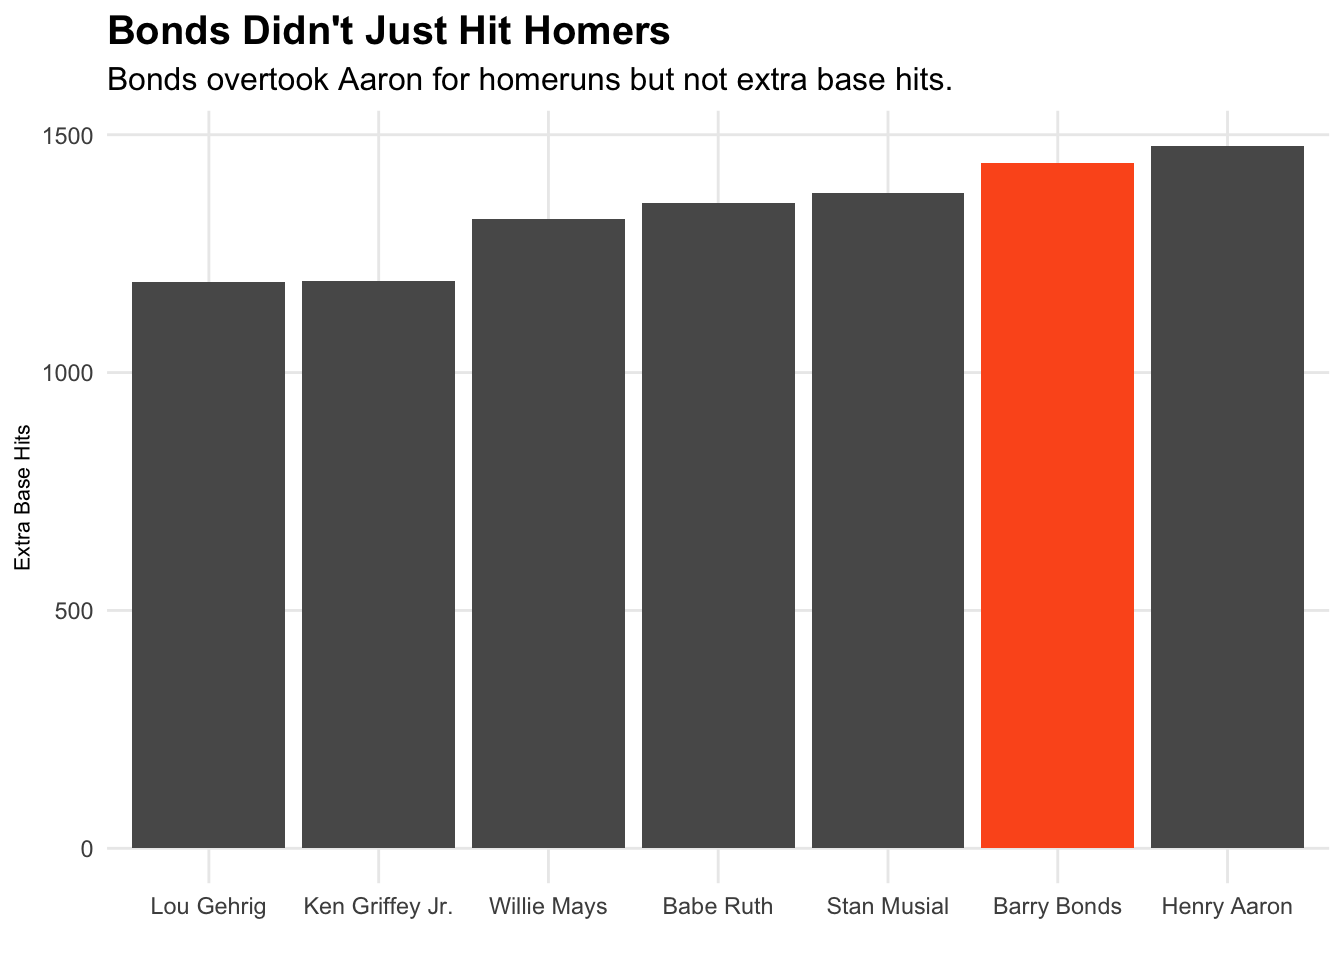
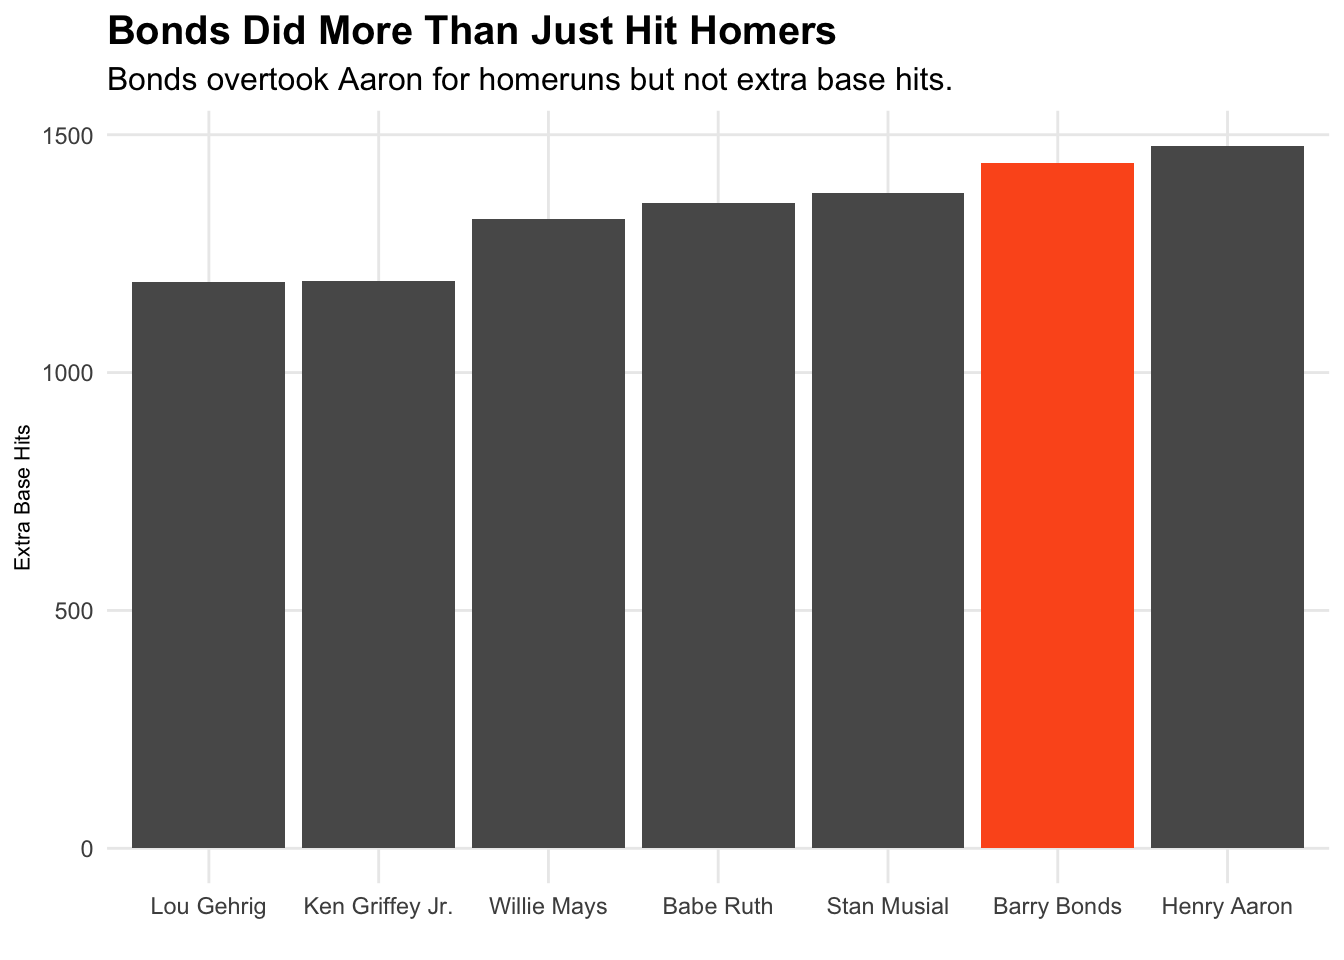
fixing error

Changed region(s): [[0.2188, 0.0, 0.625, 0.0625]]

diff --git a/2021/04/22/barry-bonds-the-best-hitter-of-all-time/index.html b/2021/04/22/barry-bonds-the-best-hitter-of-all-time/index.html
@@ -76,9 +76,9 @@
 <script src="/rmarkdown-libs/header-attrs/header-attrs.js"></script>
 
 
-<p>On August 7, 2007 Barry Bonds enshrined his name into baseball and sports history. Just a few nights earlier Bonds hit home run 755 in San Diego with his arch nemesis Bud Selig watching from a suite. Then on a cold and windy summer night in the City by the bay, Bonds hit a towering home run into the right center bleachers to break Hank Aaron’s home run record. Duane Kuiper, the Giants broadcaster, said one of the lines that still ring in fans heads, “Bonds stands alone”. On that night, Barry Bonds became the greatest home run hitter that baseball had ever seen and will most likely ever see.</p>
+<p>On August 7, 2007 Barry Bonds enshrined his name into baseball and sports history. Just a few nights earlier Bonds hit home run 755 in San Diego with his arch nemesis MLB Commissioner Bud Selig watching from a suite. Then on a cold and windy summer night in the City by the bay, Bonds hit a towering home run into the right center bleachers to break Hank Aaron’s home run record. Duane Kuiper, the Giants broadcaster, said one of the lines that still ring in fans heads, “Bonds stands alone”. On that night, Barry Bonds became the greatest home run hitter that baseball had ever seen and will most likely ever see.</p>
 <p>But home runs, weren’t the only thing Bonds was the best at. He was a menace on the base paths. He had as much opposite field power as he did pull power. That feels like a rareity in today’s game. Instead of trying to list all the things Bonds was good at, it would be easier to list the things he wasn’t good at. Most of that list would be comprised of non-baseball things. He was just that good.</p>
-<p>But how good was he? In today’s game, we always compare current players to hall of famers when judging how good they are. But with Bonds not being in the hall of fame, that still applies. So in this story we are going to compare Barry Bonds to all of the players who sit in the baseball hall of fame. The goal is to answer this question: Was there anyone better then Barry?</p>
+<p>But how good was he? In today’s game, we always compare current players to hall of famers when judging how good they are. But with Bonds not being in the hall of fame, that still applies. So in this story we are going to compare Barry Bonds to all of the players who sit in the baseball hall of fame. The goal is to answer this question: Was there anyone better then Barry Bonds?</p>
 <pre class="r"><code>library(tidyverse)</code></pre>
 <pre><code>## ── Attaching packages ─────────────────────────────────────── tidyverse 1.3.0 ──</code></pre>
 <pre><code>## ✓ ggplot2 3.3.3     ✓ purrr   0.3.4
@@ -90,7 +90,14 @@
 ## x dplyr::lag()    masks stats::lag()</code></pre>
 <pre class="r"><code>library(ggrepel)
 
-HOF_Bonds &lt;- read.csv(&quot;HOF.csv&quot;)</code></pre>
+HOF_Bonds &lt;- read_csv(&quot;HOF.csv&quot;)</code></pre>
+<pre><code>## 
+## ── Column specification ────────────────────────────────────────────────────────
+## cols(
+##   .default = col_double(),
+##   Name = col_character()
+## )
+## ℹ Use `spec()` for the full column specifications.</code></pre>
 <p>The data that I am using for this article is the stats of every single player in the baseball Hall of Fame offensive stats. This data comes from Baseball Reference. Additionally, I added in Barry Bonds career offensive stats as well.</p>
 <p>The first thing I want to do before I go any further is take this data and filter it just for players with at least 3000 carrer plate appearance. This will eliminate pitchers who may have seen at-bats, but since we are looking for the best hitter, we don’t want them skewing our data.</p>
 <pre class="r"><code>hitters &lt;- HOF_Bonds %&gt;% filter(PA&gt;3000)</code></pre>
@@ -177,24 +184,24 @@ ggplot() +
 <p><img src="/post/2021-04-22-barry-bonds-the-best-hitter-of-all-time/Barry_Bonds_files/figure-html/unnamed-chunk-5-1.png" width="672" />
 Bonds really was a menace at the plate. While his slugging percentage wasn’t the highest, it was still one of the best. He also broke the record for most home runs witht 764. You match a high slugging percentage and a lot of homeruns, there is no suprise that Bonds is the most walked player in the history of the game.</p>
 <p>But homers aren’t the only important stat. Extra base his are also of a lot of importance. One of the most important things an offense can do is get runners in scoring position. So I took at the hitters with the most extra base hits and put them into a bar chart. This will help show that Bonds is once again at or near the top of the leaderboard.</p>
-<pre class="r"><code>XBH &lt;- HOF_Bonds %&gt;% 
-  group_by(Name) %&gt;% 
+<pre class="r"><code>XBH &lt;- hitters %&gt;%
+  group_by(Name) %&gt;%
   summarise(
-    XBH = (sum(X2B)+sum(X3B)+sum(HR))
+    XBH = (sum(`2B`)+sum(`3B`)+sum(HR))
   ) %&gt;% 
  top_n(7)</code></pre>
 <pre><code>## Selecting by XBH</code></pre>
 <pre class="r"><code>XBHbonds &lt;- Bonds %&gt;% 
   group_by(Name) %&gt;% 
   summarise(
-    XBH = (sum(X2B)+sum(X3B)+sum(HR))
+  XBH = (sum(`2B`)+sum(`3B`)+sum(HR))
   )
 
 ggplot() + 
   geom_bar(data=XBH, aes(x=reorder(Name,XBH), weight=XBH))+ 
   geom_bar(data=XBHbonds, aes(x=reorder(Name, XBH), weight=XBH), fill=&quot;#fd5a1e&quot; )+
   labs(
-    title=&quot;Bonds Didn&#39;t Just Hit Homers&quot;, subtitle = &quot;Bonds overtook Aaron for homeruns but not extra base hits.&quot;,
+    title=&quot;Bonds Did More Than Just Hit Homers&quot;, subtitle = &quot;Bonds overtook Aaron for homeruns but not extra base hits.&quot;,
     x=&quot;&quot;, 
     y=&quot;Extra Base Hits&quot;) + 
   theme_minimal() + 
